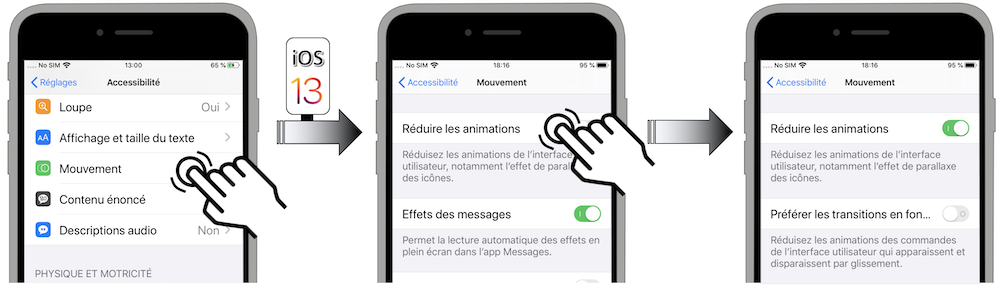
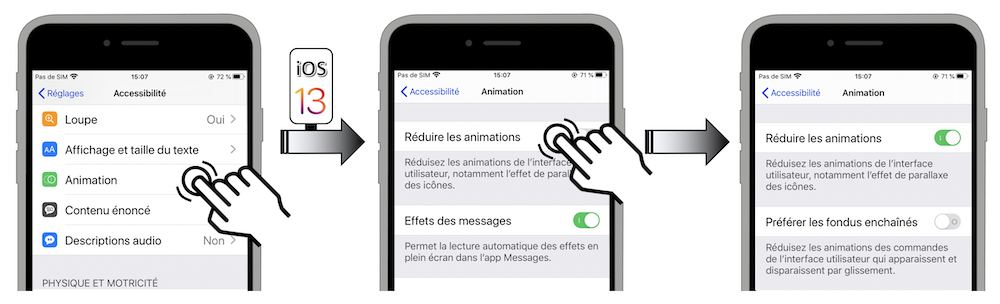
- iOS: added the 'prefer cross-fade transition' option in the 'Designer' section {'Accessibility options' ; EN + FR}.

Changed region(s): [[0.0, 0.0, 1.0, 0.9863]]

diff --git a/src/fr/mobile/ios/conception.md b/src/fr/mobile/ios/conception.md
@@ -929,9 +929,9 @@ En fonction des spécificités liées aux interfaces graphiques proposées, il p
 Les options d'accessibilité présentes dans les réglages du terminal sont toutes susceptibles d'améliorer de façon conséquente le parcours d'un utilisateur souffrant d'un trouble que l'option peut fortement aider à surmonter.
 </br>Il est donc primordial de&nbsp;:
 
-- **Comprendre** comment chacune de ces options peut impacter la conception et la réalisation d'une application.
+- **comprendre** comment chacune de ces options peut impacter la conception et la réalisation d'une application,
 
-- **Tester** chacune des options appropriées afin de s'assurer que son effet est bien pris en compte au sein de l'application proposée.
+- **tester** chacune des options appropriées afin de s'assurer que son effet est bien pris en compte au sein de l'application proposée.
 
 <a href="https://developer.apple.com/videos/play/wwdc2020/10020/?time=783"><img class="img-fluid" alt="Accès à la vidéo WWDC mentionnant l'importance de la prise en compte des réglages utilisateurs au sein d'une application." src="../../images/displayPreferences-wwdc.png"/>
 </a>
@@ -961,23 +961,25 @@ La liste exhaustive de ces options est fournie ci-dessous en détaillant leur ac
 
 9. [Limiter les animations visuelles](#optionA11Y_limiteVisuel).
 
-10. [Réduire le floutage et la transparence](#optionA11Y_reductionTransparence).
+10. [Préférer les fondus enchaînés](#optionA11Y_preferCrossFadeTransition).
 
-11. [Secouer pour annuler](#optionA11Y_secouerPourAnnuler).
+11. [Réduire le floutage et la transparence](#optionA11Y_reductionTransparence).
 
-12. [Énoncer le contenu de l'écran](#optionA11Y_lecturePage).
+12. [Secouer pour annuler](#optionA11Y_secouerPourAnnuler).
 
-13. [Énoncer la sélection](#optionA11Y_speakSelection).
+13. [Énoncer le contenu de l'écran](#optionA11Y_lecturePage).
 
-14. [Activer le Contrôle de Sélection](#optionA11Y_switchControl).
+14. [Énoncer la sélection](#optionA11Y_speakSelection).
 
-15. [Activer VoiceOver](#optionA11Y_voiceOver).
+15. [Activer le Contrôle de Sélection](#optionA11Y_switchControl).
 
-16. [Prévisualisation vidéo](#optionA11Y_autoPlayVideoPreviews).
+16. [Activer VoiceOver](#optionA11Y_voiceOver).
 
-17. [Différencier sans couleur](#optionA11Y_differentiateWithoutColour).
+17. [Prévisualisation vidéo](#optionA11Y_autoPlayVideoPreviews).
 
-18. [Boutons avec I/O](#optionA11Y_onOffSwitchLabels).
+18. [Différencier sans couleur](#optionA11Y_differentiateWithoutColour).
+
+19. [Boutons avec I/O](#optionA11Y_onOffSwitchLabels).
 
 <br>
 
@@ -1233,7 +1235,7 @@ Depuis **iOS 13**, cette option d'accessibilité est désormais une **<a href="h
 
 <a name="optionA11Y_limiteVisuel"></a>
 
-- **Limiter les animations visuelles** (UIAccessibilityIsReduceMotionEnabled)&nbsp;: voir [WWDC&nbsp;2018](../wwdc/2018/230/#mouvement-0848) pour un descriptif de la fonctionnalité.
+- **Limiter les animations visuelles** (UIAccessibilityIsReduceMotionEnabled)&nbsp;: voir [WWDC&nbsp;2018](../wwdc/2018/230/#mouvement-0848), [WWDC&nbsp;2019](../wwdc/2019/#reduction-de-mouvement) et [WWDC&nbsp;2020](../wwdc/2020/020/#preferences-utilisateur) pour un descriptif détaillé de la fonctionnalité.
 
 <ul class="nav nav-tabs" role="tablist">
     <li class="nav-item">
@@ -1255,12 +1257,19 @@ Depuis **iOS 13**, cette option d'accessibilité est désormais une **<a href="h
      id="ReduceMotion-iOS13"
      role="tabpanel">
     
-![Illustration d'accès via le menu Réglages - Accessibilité - Mouvement - Réduire les animations](../../images/optionA11Y_iOS13_reduceMotion.png)
+![Illustration d'accès via le menu Réglages - Accessibilité - Animation - Réduire les animations](../../images/optionA11Y_iOS13_reduceMotion.png)
 </div>
 <div class="tab-pane" id="ReduceMotion-iOS12" role="tabpanel" >
     
 ![Illustration d'accès via le menu Réglages - Général - Accessibilité - Réduire les animations](../../images/optionA11Y_iOS12_reduceMotion.png)
 </div></div></br>
+
+<a name="optionA11Y_preferCrossFadeTransition"></a>
+
+- **Préférer les fondus enchaînés** (UIAccessibilityPrefersCrossFadeTranstions)&nbsp;: voir [WWDC&nbsp;2019](../wwdc/2019/#reduction-de-mouvement) et [WWDC&nbsp;2020](../wwdc/2020/020/#preferences-utilisateur) pour un descriptif précis de la fonctionnalité.
+    
+![Illustration d'accès via le menu Réglages - Accessibilité - Animation - Réduire les animations - Préférer les fondus enchaînés](../../images/optionA11Y_iOS13_crossFadeTransition.png)
+</br>
 
 <a name="optionA11Y_reductionTransparence"></a>
 
@@ -1452,7 +1461,7 @@ Depuis **iOS 13**, cette option d'accessibilité est désormais une **<a href="h
 
 - **Prévisualisation vidéo** (UIAccessibilityIsVideoAutoplayEnabled)&nbsp;: voir [WWDC&nbsp;2019](../wwdc/2019/#reduction-de-mouvement) pour un descriptif de cette **nouvelle fonctionnalité iOS 13**.
 
-![Illustration d'accès via le menu Réglages - Accessibilité - Mouvement - Lire automatiquement les aperçus](../../images/optionA11Y_iOS13_autoPlayVideoPreviews.png)
+![Illustration d'accès via le menu Réglages - Accessibilité - Mouvement - Lire automatiquement les aperçus](../../images/optionA11Y_iOS13_autoPlayVideoPreviews.jpg)
 </br></br></br>
 
 <a name="optionA11Y_differentiateWithoutColour"></a>

diff --git a/src/en/mobile/ios/design.md b/src/en/mobile/ios/design.md
@@ -968,23 +968,25 @@ The full list of these options including their purpose and their coding name is 
 
 9. [Reduce Motion](#optionA11Y_limiteVisuel)
 
-10. [Reduce Transparency](#optionA11Y_reductionTransparence)
+10. [Prefer Cross-Fade Transition](#optionA11Y_preferCrossFadeTransition)
 
-11. [Shake to Undo](#optionA11Y_secouerPourAnnuler)
+11. [Reduce Transparency](#optionA11Y_reductionTransparence)
 
-12. [Speak Screen](#optionA11Y_lecturePage)
+12. [Shake to Undo](#optionA11Y_secouerPourAnnuler)
 
-13. [Speak Selection](#optionA11Y_speakSelection)
+13. [Speak Screen](#optionA11Y_lecturePage)
 
-14. [Switch Control](#optionA11Y_switchControl)
+14. [Speak Selection](#optionA11Y_speakSelection)
 
-15. [VoiceOver](#optionA11Y_voiceOver)
+15. [Switch Control](#optionA11Y_switchControl)
 
-16. [Auto-Play Video Previews](#optionA11Y_autoPlayVideoPreviews)
+16. [VoiceOver](#optionA11Y_voiceOver)
 
-17. [Differentiate Without Colour](#optionA11Y_differentiateWithoutColour)
+17. [Auto-Play Video Previews](#optionA11Y_autoPlayVideoPreviews)
 
-18. [On/Off Labels](#optionA11Y_onOffSwitchLabels)
+18. [Differentiate Without Colour](#optionA11Y_differentiateWithoutColour)
+
+19. [On/Off Labels](#optionA11Y_onOffSwitchLabels)
 
 <br>
 
@@ -1233,7 +1235,7 @@ The full list of these options including their purpose and their coding name is 
 </div></div></br>
 
 <a name="optionA11Y_limiteVisuel"></a>
-- **Reduce Motion** (UIAccessibilityIsReduceMotionEnabled): see the [WWDC&nbsp;2018&nbsp;video](../wwdc/2018/230/#motion-0848) for a detailed description.
+- **Reduce Motion** (UIAccessibilityIsReduceMotionEnabled): see the [WWDC&nbsp;2018&nbsp;video](../wwdc/2018/230/#motion-0848), the [WWDC&nbsp;2019](../wwdc/2019/#reduce-motion) and the  [WWDC&nbsp;2020](../wwdc/2020/020/#display-preferences) videos for a detailed description.
 
 <ul class="nav nav-tabs" role="tablist">
     <li class="nav-item">
@@ -1261,6 +1263,12 @@ The full list of these options including their purpose and their coding name is 
     
 ![Access illustration via Settings - General - Accessibility - Reduce Motion](../../images/optionA11Y_iOS12_reduceMotion.png)
 </div></div></br>
+
+<a name="optionA11Y_preferCrossFadeTransition"></a>
+- **Prefer Cross-Fade Transition** (UIAccessibilityPrefersCrossFadeTranstions): see the [WWDC&nbsp;2019](../wwdc/2019/#reduce-motion) and the  [WWDC&nbsp;2020](../wwdc/2020/020/#display-preferences) videos for a detailed description.
+    
+![Access illustration via Settings - Accessibility - Motion - Reduce Motion - Prefer Cross-Fade Transition](../../images/optionA11Y_iOS13_crossFadeTransition.png)
+</br>
 
 <a name="optionA11Y_reductionTransparence"></a>
 - **Reduce Transparency** (UIAccessibilityIsReduceTransparencyEnabled): see the [WWDC&nbsp;2018&nbsp;video](../wwdc/2018/230/#transparency-and-blurring-0307) for a detailed description.
